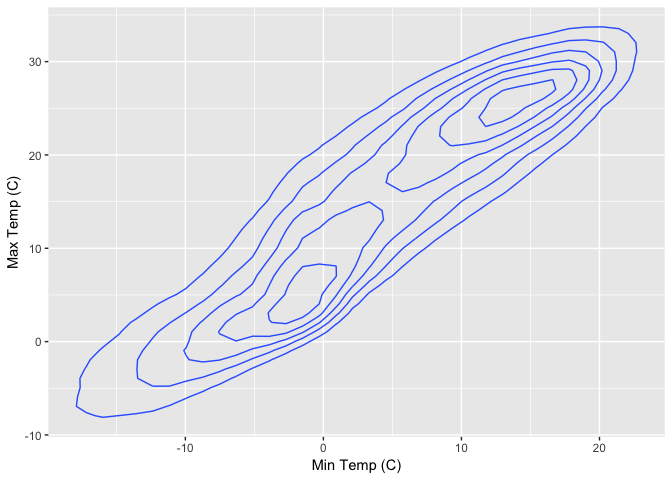
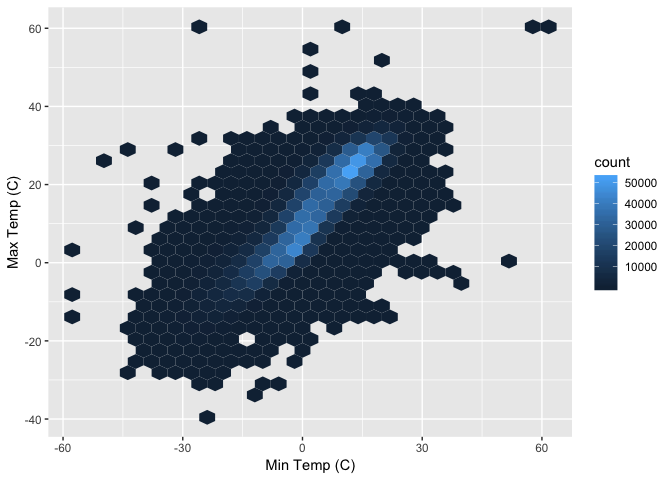
update

diff --git a/p8105_hw3_yw3236.md b/p8105_hw3_yw3236.md
@@ -15,11 +15,15 @@ devtools::install_github("p8105/p8105.datasets")
 
 ``` r
 library(p8105.datasets)
-
-data(brfss_smart2010)
+data(brfss_smart2010) #read the dataset
 ```
 
-View(brfss\_smart2010)
+### Clean Data
+
+-   Format the data to use appropriate variable names
+-   Focus on the “Overall Health” topic
+-   Include only responses from “Excellent” to “Poor”
+-   Organize responses as a factor taking levels ordered from “Excellent” to “Poor”
 
 ``` r
 formated_brfss_smart2010 = brfss_smart2010 %>%
@@ -27,33 +31,34 @@ formated_brfss_smart2010 = brfss_smart2010 %>%
   rename(., state = locationabbr, county = locationdesc) %>%
   filter(., topic == "Overall Health") %>%
   filter(., response == "Excellent" | response == "Very good" | response == "Good" | response == "Fair" | response == "Poor") %>%
-  mutate(., response = as.factor(.$response)) %>%
-  arrange(., factor(response, levels = c("Excellent", "Very good", "Good", "Fair", "Poor")))
+  mutate(., factor(response, levels = c("Excellent", "Very good", "Good", "Fair", "Poor")))
 
 formated_brfss_smart2010
 ```
 
-    ## # A tibble: 10,625 x 23
+    ## # A tibble: 10,625 x 24
     ##     year state county class topic question response sample_size data_value
-    ##    <int> <chr> <chr>  <chr> <chr> <chr>    <fct>          <int>      <dbl>
+    ##    <int> <chr> <chr>  <chr> <chr> <chr>    <chr>          <int>      <dbl>
     ##  1  2010 AL    AL - ~ Heal~ Over~ How is ~ Excelle~          94       18.9
-    ##  2  2010 AL    AL - ~ Heal~ Over~ How is ~ Excelle~          91       15.6
-    ##  3  2010 AL    AL - ~ Heal~ Over~ How is ~ Excelle~          58       20.8
-    ##  4  2010 AZ    AZ - ~ Heal~ Over~ How is ~ Excelle~         269       27.3
-    ##  5  2010 AZ    AZ - ~ Heal~ Over~ How is ~ Excelle~          68       17  
-    ##  6  2010 AZ    AZ - ~ Heal~ Over~ How is ~ Excelle~         133       20.5
-    ##  7  2010 AR    AR - ~ Heal~ Over~ How is ~ Excelle~          67       23.1
-    ##  8  2010 AR    AR - ~ Heal~ Over~ How is ~ Excelle~         100       29  
-    ##  9  2010 AR    AR - ~ Heal~ Over~ How is ~ Excelle~          47       24.1
-    ## 10  2010 CA    CA - ~ Heal~ Over~ How is ~ Excelle~         167       24  
-    ## # ... with 10,615 more rows, and 14 more variables:
+    ##  2  2010 AL    AL - ~ Heal~ Over~ How is ~ Very go~         148       30  
+    ##  3  2010 AL    AL - ~ Heal~ Over~ How is ~ Good             208       33.1
+    ##  4  2010 AL    AL - ~ Heal~ Over~ How is ~ Fair             107       12.5
+    ##  5  2010 AL    AL - ~ Heal~ Over~ How is ~ Poor              45        5.5
+    ##  6  2010 AL    AL - ~ Heal~ Over~ How is ~ Excelle~          91       15.6
+    ##  7  2010 AL    AL - ~ Heal~ Over~ How is ~ Very go~         177       31.3
+    ##  8  2010 AL    AL - ~ Heal~ Over~ How is ~ Good             224       31.2
+    ##  9  2010 AL    AL - ~ Heal~ Over~ How is ~ Fair             120       15.5
+    ## 10  2010 AL    AL - ~ Heal~ Over~ How is ~ Poor              66        6.4
+    ## # ... with 10,615 more rows, and 15 more variables:
     ## #   confidence_limit_low <dbl>, confidence_limit_high <dbl>,
     ## #   display_order <int>, data_value_unit <chr>, data_value_type <chr>,
     ## #   data_value_footnote_symbol <chr>, data_value_footnote <chr>,
     ## #   data_source <chr>, class_id <chr>, topic_id <chr>, location_id <chr>,
-    ## #   question_id <chr>, respid <chr>, geo_location <chr>
+    ## #   question_id <chr>, respid <chr>, geo_location <chr>, `factor(response,
+    ## #   levels = c("Excellent", "Very good", "Good", \n "Fair",
+    ## #   "Poor"))` <fct>
 
-View(formated\_brfss\_smart2010)
+### Question 1
 
 ``` r
 formated_brfss_smart2010_2002 = formated_brfss_smart2010 %>%
@@ -64,7 +69,11 @@ formated_brfss_smart2010_2002 = formated_brfss_smart2010 %>%
   summarize(n = n())
 ```
 
-View(formated\_brfss\_smart2010\_2002)
+In 2002, CT, FL, NC were observed at 7 locations.
+
+### Question 2
+
+Make a “spaghetti plot” that shows the number of locations in each state from 2002 to 2010.
 
 ``` r
 plot_2002_to_2010 = formated_brfss_smart2010 %>%
@@ -78,7 +87,13 @@ plot_2002_to_2010 = formated_brfss_smart2010 %>%
 plot_2002_to_2010
 ```
 
-![](p8105_hw3_yw3236_files/figure-markdown_github/unnamed-chunk-5-1.png) View(formated\_brfss\_smart2010\_2002\_to\_2010)
+![](p8105_hw3_yw3236_files/figure-markdown_github/unnamed-chunk-5-1.png)
+
+There are many lines in the plot, just like "spaghetti". It's kind of difficult to read information from this plot.
+
+### Question 3
+
+Make a table showing, for the years 2002, 2006, and 2010, the mean and standard deviation of the proportion of “Excellent” responses across locations in NY State.
 
 ``` r
 formated_brfss_smart2010_excellent_NY = formated_brfss_smart2010 %>%
@@ -94,12 +109,17 @@ formated_brfss_smart2010_excellent_NY = formated_brfss_smart2010 %>%
 formated_brfss_smart2010_excellent_NY
 ```
 
-|     year|     mean\_ny\_excellent|  std\_ny\_excellent|
-|--------:|-----------------------:|-------------------:|
-|     2002|                    24.0|                 4.5|
-|     2006|                    22.5|                 4.0|
-|     2010|                    22.7|                 3.6|
-|  View(fo|  rmated\_brfss\_smart20|  10\_excellent\_NY)|
+|  year|  mean\_ny\_excellent|  std\_ny\_excellent|
+|-----:|--------------------:|-------------------:|
+|  2002|                 24.0|                 4.5|
+|  2006|                 22.5|                 4.0|
+|  2010|                 22.7|                 3.6|
+
+From the table, we can see that year 2002 has the highest mean and standard deviation of the proportion of “Excellent” responses across locations in NY State.
+
+### Question 4
+
+-   For each year and state, compute the average proportion in each response category. \* Make a five-panel plot that shows, for each response category separately, the distribution of these state-level averages over time.
 
 ``` r
 response_average_prop = formated_brfss_smart2010 %>%
@@ -114,7 +134,9 @@ ggplot(response_average_prop, aes(x = year, y = average_prop)) +
 
     ## Warning: Removed 21 rows containing missing values (geom_point).
 
-![](p8105_hw3_yw3236_files/figure-markdown_github/unnamed-chunk-7-1.png) View(response\_average\_prop)
+![](p8105_hw3_yw3236_files/figure-markdown_github/unnamed-chunk-7-1.png)
+
+For the **excellent** response, the average proportion of it from 2002 to 2010 is approximatelly between 15% and 30 %. For the **very good** response, the average proportion of it from 2002 to 2010 is approximatelly between 25% and 40%. For the **good** response, the average proportion of it from 2002 to 2010 is approximatelly between 25% and 35%. For the **fair** response, the average proportion of it from 2002 to 2010 is approximatelly between 5% and 15%. For the **poor** response, the average proportion of it from 2002 to 2010 is approximatelly between 0% and 10%.
 
 Problem 2
 =========
@@ -123,7 +145,11 @@ Problem 2
 data(instacart)
 ```
 
-View(instacart)
+#### Description of the Dataset
+
+The dataset is about instacart company sale information. The size of the dataset is 1,384,617 x 15. The structure of the dataset is ready for the analysis. The key variables are `order_dow`, `order_hour_of_day`, `product_name`, `aisle`. Each observation includes custmers' information, ordered products' imformation.
+
+### Question 1
 
 ``` r
 n_aisles = nrow(instacart %>%
@@ -156,7 +182,11 @@ most_order_aisles
     ## 4 fresh fruits                 150473
     ## 5 fresh vegetables             150609
 
-View(most\_order\_aisles)
+There are 134 aisles there. The most items ordered from fresh vegetables aisle.
+
+### Question 2
+
+Make a plot that shows the number of items ordered in each aisle.
 
 ``` r
 order_aisles = instacart %>%
@@ -166,13 +196,20 @@ order_aisles = instacart %>%
   summarise(item_num = n()) %>%
   arrange(., desc(item_num)) %>%
   ggplot() +  
-  geom_point(aes(x = reorder(aisle, -item_num), y = item_num, color = item_num)) +
-  theme(axis.text.x = element_text(angle = 90, hjust = 1, size = rel(1)))
+  geom_point(aes(x = reorder(aisle, -item_num), y = item_num)) +
+  theme(axis.text.x = element_text(angle = 90, hjust = 1, size = rel(1))) +
+  labs(x = "Aisle", y = "Number of Items")
 
 order_aisles
 ```
 
-![](p8105_hw3_yw3236_files/figure-markdown_github/unnamed-chunk-10-1.png) View(order\_aisles)
+![](p8105_hw3_yw3236_files/figure-markdown_github/unnamed-chunk-10-1.png)
+
+Since there are too many aisles in the x axis, I choose to order the `item_num` as decending order and adjust the theme of the graph, such as set the angle is 90. From the graph, we can see that there are few items that has really high number of items. The number of items of the majority of aisles is under 50000.
+
+### Question 3
+
+Make a table showing the most popular item in each of the aisles “baking ingredients”, “dog food care”, and “packaged vegetables fruits”.
 
 ``` r
 popular_aisles = instacart %>%
@@ -210,6 +247,12 @@ tibble(
 | dog food care              | Snack Sticks Chicken & Rice Recipe Dog Treats |
 | packaged vegetables fruits | Organic Baby Spinach                          |
 
+By looking at the table, we can find the most poplular items in each aisle mentioned above. We can see that light brown sugar is the most popular ingredients. Dog owners love Snack Sticks Chicken & Rice Recipe Dog Treats. The most popular vegetable is organic baby spinach. From the table, the company can buy more those popular items for sale.
+
+### Question 4
+
+Make a table showing the mean hour of the day at which Pink Lady Apples and Coffee Ice Cream are ordered on each day of the week.
+
 ``` r
 mean_hour = instacart %>%
   select(., product_name, order_hour_of_day, order_dow) %>%
@@ -223,7 +266,7 @@ table_mean_hour = mean_hour %>%
   mutate(mean_hour_day = format(mean_hour_day, nsmall = 2)) %>%
   separate(mean_hour_day, into = c("hours", "mins"), sep = "\\.") %>%   
   mutate(mins = round(as.numeric(mins)*0.6)) %>%  
-  mutate(average_time_order = paste(hours, "hours", mins, "mins")) %>% 
+  mutate(average_time_order = paste(hours, ":", mins)) %>% 
   select(day, product_name, average_time_order) %>%   
   spread(key = day, value = average_time_order) %>% 
   knitr::kable(digits = 2, col.names = c("Product", "Sun", "Mon", "Tue", "Wed", "Thu", "Fri", "Sat"),
@@ -232,10 +275,12 @@ table_mean_hour = mean_hour %>%
 table_mean_hour
 ```
 
-| Product          | Sun              | Mon              | Tue              | Wed              | Thu              | Fri              | Sat              |
-|:-----------------|:-----------------|:-----------------|:-----------------|:-----------------|:-----------------|:-----------------|:-----------------|
-| Coffee Ice Cream | 13 hours 46 mins | 14 hours 19 mins | 15 hours 23 mins | 15 hours 19 mins | 15 hours 13 mins | 12 hours 16 mins | 13 hours 50 mins |
-| Pink Lady Apples | 13 hours 26 mins | 11 hours 22 mins | 11 hours 42 mins | 14 hours 15 mins | 11 hours 33 mins | 12 hours 47 mins | 11 hours 56 mins |
+| Product          | Sun     | Mon     | Tue     | Wed     | Thu     | Fri     | Sat     |
+|:-----------------|:--------|:--------|:--------|:--------|:--------|:--------|:--------|
+| Coffee Ice Cream | 13 : 46 | 14 : 19 | 15 : 23 | 15 : 19 | 15 : 13 | 12 : 16 | 13 : 50 |
+| Pink Lady Apples | 13 : 26 | 11 : 22 | 11 : 42 | 14 : 15 | 11 : 33 | 12 : 47 | 11 : 56 |
+
+From the table, we can see coffee ice cream is usually bought after 12AM and pink laby apples are usually bought before 12AM.
 
 Problem 3
 =========
@@ -244,7 +289,13 @@ Problem 3
 data(ny_noaa)
 ```
 
-View(ny\_noaa)
+#### Description of the Dataset
+
+The size of the dataset is 2,595,176 x 7. I would say all of the variables in the dataset are key variables because different problems need different variables. The structure of this data is ready for the analysis, except for seperating date variable. Each variable of this dataset have lots of missing values. Those missing data might couse not accurate result.
+
+### Question 1
+
+Separate variables for year, month, and day.
 
 ``` r
 formated_ny_noaa = ny_noaa %>% 
@@ -288,7 +339,11 @@ common_snwd
     ##   <int>   <int>
     ## 1     0 1621683
 
-View(formated\_ny\_noaa) View(common\_snwd)
+For snowfall, the most commonly observed values are 0. The reason is becasue snow only in winter time and winter time is relatively short comparing a whole year.
+
+### Question 2
+
+Make a two-panel plot showing the average max temperature in January and in July in each station across years.
 
 ``` r
 jan_jul_temp = formated_ny_noaa %>%
@@ -311,22 +366,32 @@ ggplot(jan_jul_temp, aes(x = year, y = average_max_temp)) +
   facet_grid(~month) 
 ```
 
-![](p8105_hw3_yw3236_files/figure-markdown_github/unnamed-chunk-15-2.png) View(jan\_jul\_temp)
+![](p8105_hw3_yw3236_files/figure-markdown_github/unnamed-chunk-15-2.png)
+
+There is an observable structure. The average max temperature in Jan is lower than the average max temperature in Jul. There are outiers. Those outilers are easily to be identified from boxplot.
+
+### Question 3
+
+Plot tmax vs tmin for the full dataset.
 
 ``` r
+library(hexbin)
+
 temp = formated_ny_noaa %>%
   select(., id, year, month, day, tmax, tmin) %>%
   filter(., !is.na(tmax) & !is.na(tmin)) 
 
 temp_plot = ggplot(temp, aes(x = tmin, y = tmax)) +     
-  geom_density_2d() +    
+  geom_hex() +    
   labs(x = "Min Temp (C)",
        y = "Max Temp (C)")
 
 temp_plot
 ```
 
-![](p8105_hw3_yw3236_files/figure-markdown_github/unnamed-chunk-16-1.png) View(temp)
+![](p8105_hw3_yw3236_files/figure-markdown_github/unnamed-chunk-16-1.png)
+
+Make a plot showing the distribution of snowfall values greater than 0 and less than 100 separately by year.
 
 ``` r
 snowfall = formated_ny_noaa %>%
@@ -341,4 +406,4 @@ snow_plot = ggplot(snowfall) +
 snow_plot
 ```
 
-![](p8105_hw3_yw3236_files/figure-markdown_github/unnamed-chunk-17-1.png) View(snowfall)
+![](p8105_hw3_yw3236_files/figure-markdown_github/unnamed-chunk-17-1.png)
